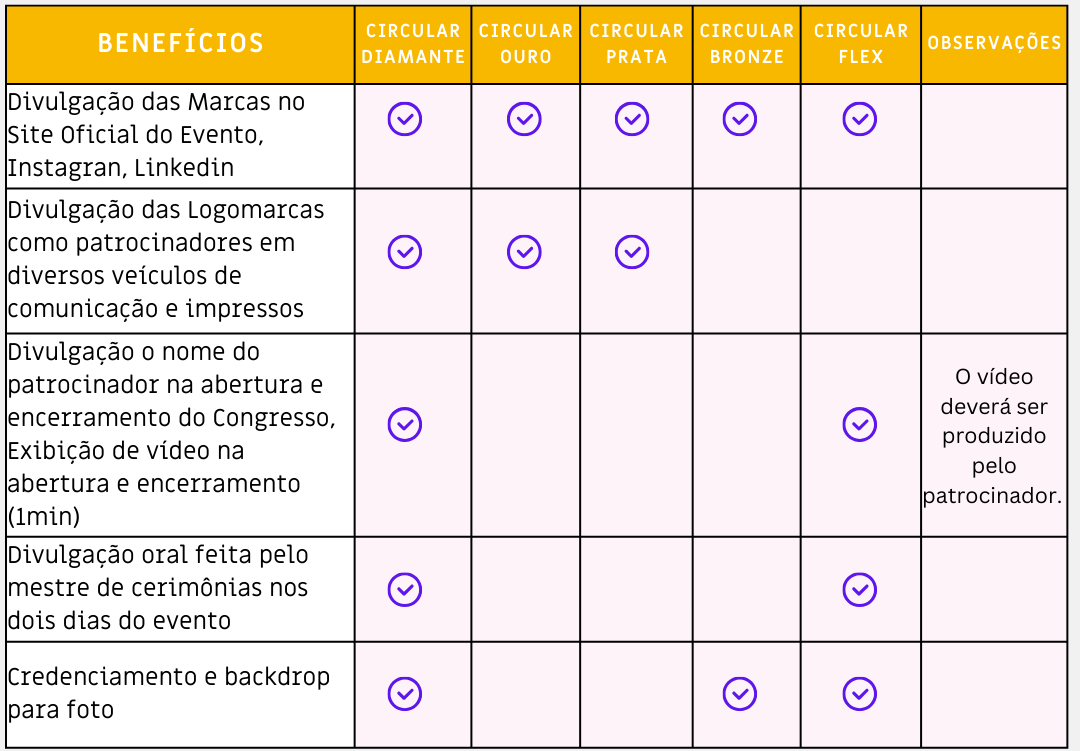
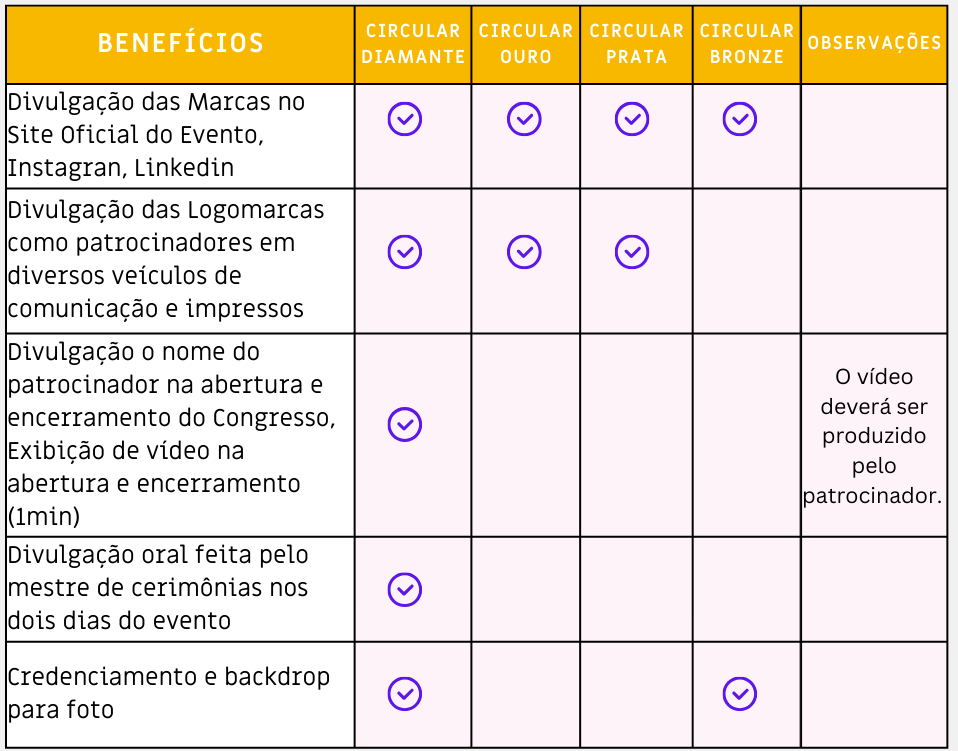
Retirando palestrante não confirmado, retirando categoria flex de parceiros

diff --git a/circular-partners.html b/circular-partners.html
@@ -2068,7 +2068,7 @@
 								</div>
 							</div>
 
-							<div style="display: flex; flex-direction: column; align-items: center; gap: 10px;">
+							<!-- <div style="display: flex; flex-direction: column; align-items: center; gap: 10px;">
 								<div class="elementor-element elementor-element-3162c3d e-con-full e-flex e-con e-child"
 									data-id="3162c3d" data-element_type="container"
 									style="width: 150px; height: 150px; border-radius: 50%; overflow: hidden; display: flex; align-items: center; justify-content: center; box-shadow: 0px 4px 8px rgba(0, 0, 0, 0.2);">
@@ -2094,9 +2094,8 @@
 									Speaker on Job Market for Circular Economy<br>
 									Co-Founder of Circular Talent
 								</div>
-							</div>
-						</div>
-						<div class="e-con-inner" style="display: flex; justify-content: space-around; gap: 20px;">
+							</div> -->
+
 							<div style="display: flex; flex-direction: column; align-items: center; gap: 10px;">
 								<div class="elementor-element elementor-element-3162c3d e-con-full e-flex e-con e-child"
 									data-id="3162c3d" data-element_type="container"
@@ -2124,6 +2123,10 @@
 									Green Party Councilor in Salvador
 								</div>
 							</div>
+
+						</div>
+						<div class="e-con-inner" style="display: flex; justify-content: space-around; gap: 20px;">
+							
 							<div style="display: flex; flex-direction: column; align-items: center; gap: 10px;">
 								<div class="elementor-element elementor-element-3162c3d e-con-full e-flex e-con e-child"
 									data-id="3162c3d" data-element_type="container"

diff --git a/parceiros-circulares.html b/parceiros-circulares.html
@@ -2073,7 +2073,7 @@
 							</div>
 						</div>
 
-						<div style="display: flex; flex-direction: column; align-items: center; gap: 10px;">
+						<!-- <div style="display: flex; flex-direction: column; align-items: center; gap: 10px;">
 							<div class="elementor-element elementor-element-3162c3d e-con-full e-flex e-con e-child"
 								data-id="3162c3d" data-element_type="container"
 								style="width: 150px; height: 150px; border-radius: 50%; overflow: hidden; display: flex; align-items: center; justify-content: center; box-shadow: 0px 4px 8px rgba(0, 0, 0, 0.2);">
@@ -2099,9 +2099,7 @@
 								Palestrante sobre Mercado de Trabalho para Economia Circular<br>
 								Co-Founder of Circular Talent
 							</div>
-						</div>
-					</div>
-					<div class="e-con-inner" style="display: flex; justify-content: space-around; gap: 20px;">
+						</div> -->
 
 						<div style="display: flex; flex-direction: column; align-items: center; gap: 10px;">
 							<div class="elementor-element elementor-element-3162c3d e-con-full e-flex e-con e-child"
@@ -2130,6 +2128,11 @@
 								Vereador do Partido Verde em Salvador
 							</div>
 						</div>
+
+					</div>
+					<div class="e-con-inner" style="display: flex; justify-content: space-around; gap: 20px;">
+
+						
 						<div style="display: flex; flex-direction: column; align-items: center; gap: 10px;">
 							<div class="elementor-element elementor-element-3162c3d e-con-full e-flex e-con e-child"
 								data-id="3162c3d" data-element_type="container"

diff --git a/circular-tech-skills.html b/circular-tech-skills.html
@@ -1074,7 +1074,7 @@
 								</div>
 
 								<!-- Terceiro Card -->
-								<div
+								<!-- <div
 									style="display: flex; flex-direction: column; align-items: center; gap: 10px; flex: 1 1 200px; margin: 10px; text-align: center;">
 									<div class="card"
 										style="width: 150px; height: 150px; border-radius: 50%; overflow: hidden; display: flex; align-items: center; justify-content: center; box-shadow: 0px 4px 8px rgba(0, 0, 0, 0.2);">
@@ -1088,7 +1088,7 @@
 										Palestrante sobre Mercado de Trabalho para Economia Circular<br>
 										Co-Founder of Circular Talent
 									</div>
-								</div>
+								</div> -->
 
 								<!-- Quarto Card -->
 								<div

diff --git a/circular-tech-skills-en.html b/circular-tech-skills-en.html
@@ -984,7 +984,7 @@
 								</div>
 
 								<!-- Third Card -->
-								<div
+								<!-- <div
 									style="display: flex; flex-direction: column; align-items: center; gap: 10px; flex: 1 1 200px; margin: 10px; text-align: center;">
 									<div class="card"
 										style="width: 150px; height: 150px; border-radius: 50%; overflow: hidden; display: flex; align-items: center; justify-content: center; box-shadow: 0px 4px 8px rgba(0, 0, 0, 0.2);">
@@ -998,7 +998,7 @@
 										Speaker on the Job Market for Circular Economy<br>
 										Co-Founder of Circular Talent
 									</div>
-								</div>
+								</div> -->
 
 								<!-- Fourth Card -->
 								<div
